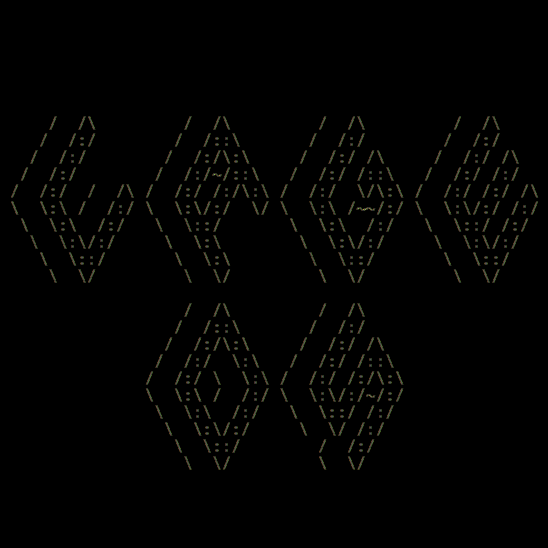
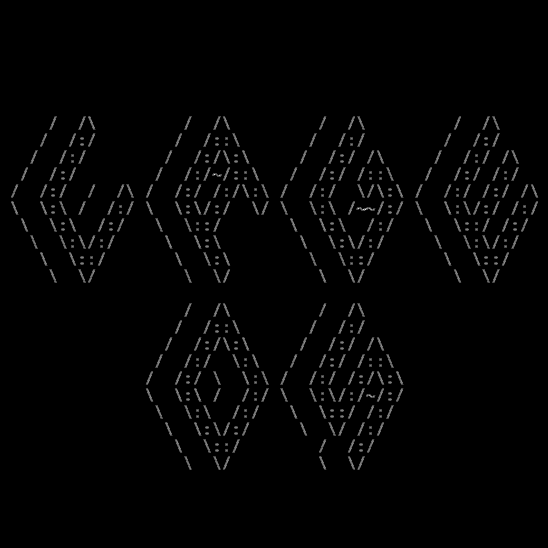
Updated gallery image effects
Also improved contrast on CageOS image

diff --git a/index.html b/index.html
@@ -57,10 +57,18 @@
             -ms-transition: all 0.5s ease;
                 transition: all 0.5s ease;
     }
+
+    .img-responsive {
+      -webkit-filter: saturate(35%) !important;
+      filter: saturate(35%);
+
+      -webkit-filter: blur(1px) !important;
+      filter: blur(1px);
+    }
     
     .col-sm-3:hover .img-responsive {
-      -webkit-filter: invert(100%) !important;;
-      filter: invert(100%);
+      -webkit-filter: saturate(100%) !important;
+      filter: saturate(100%);
     }
   </style>
 </head>
